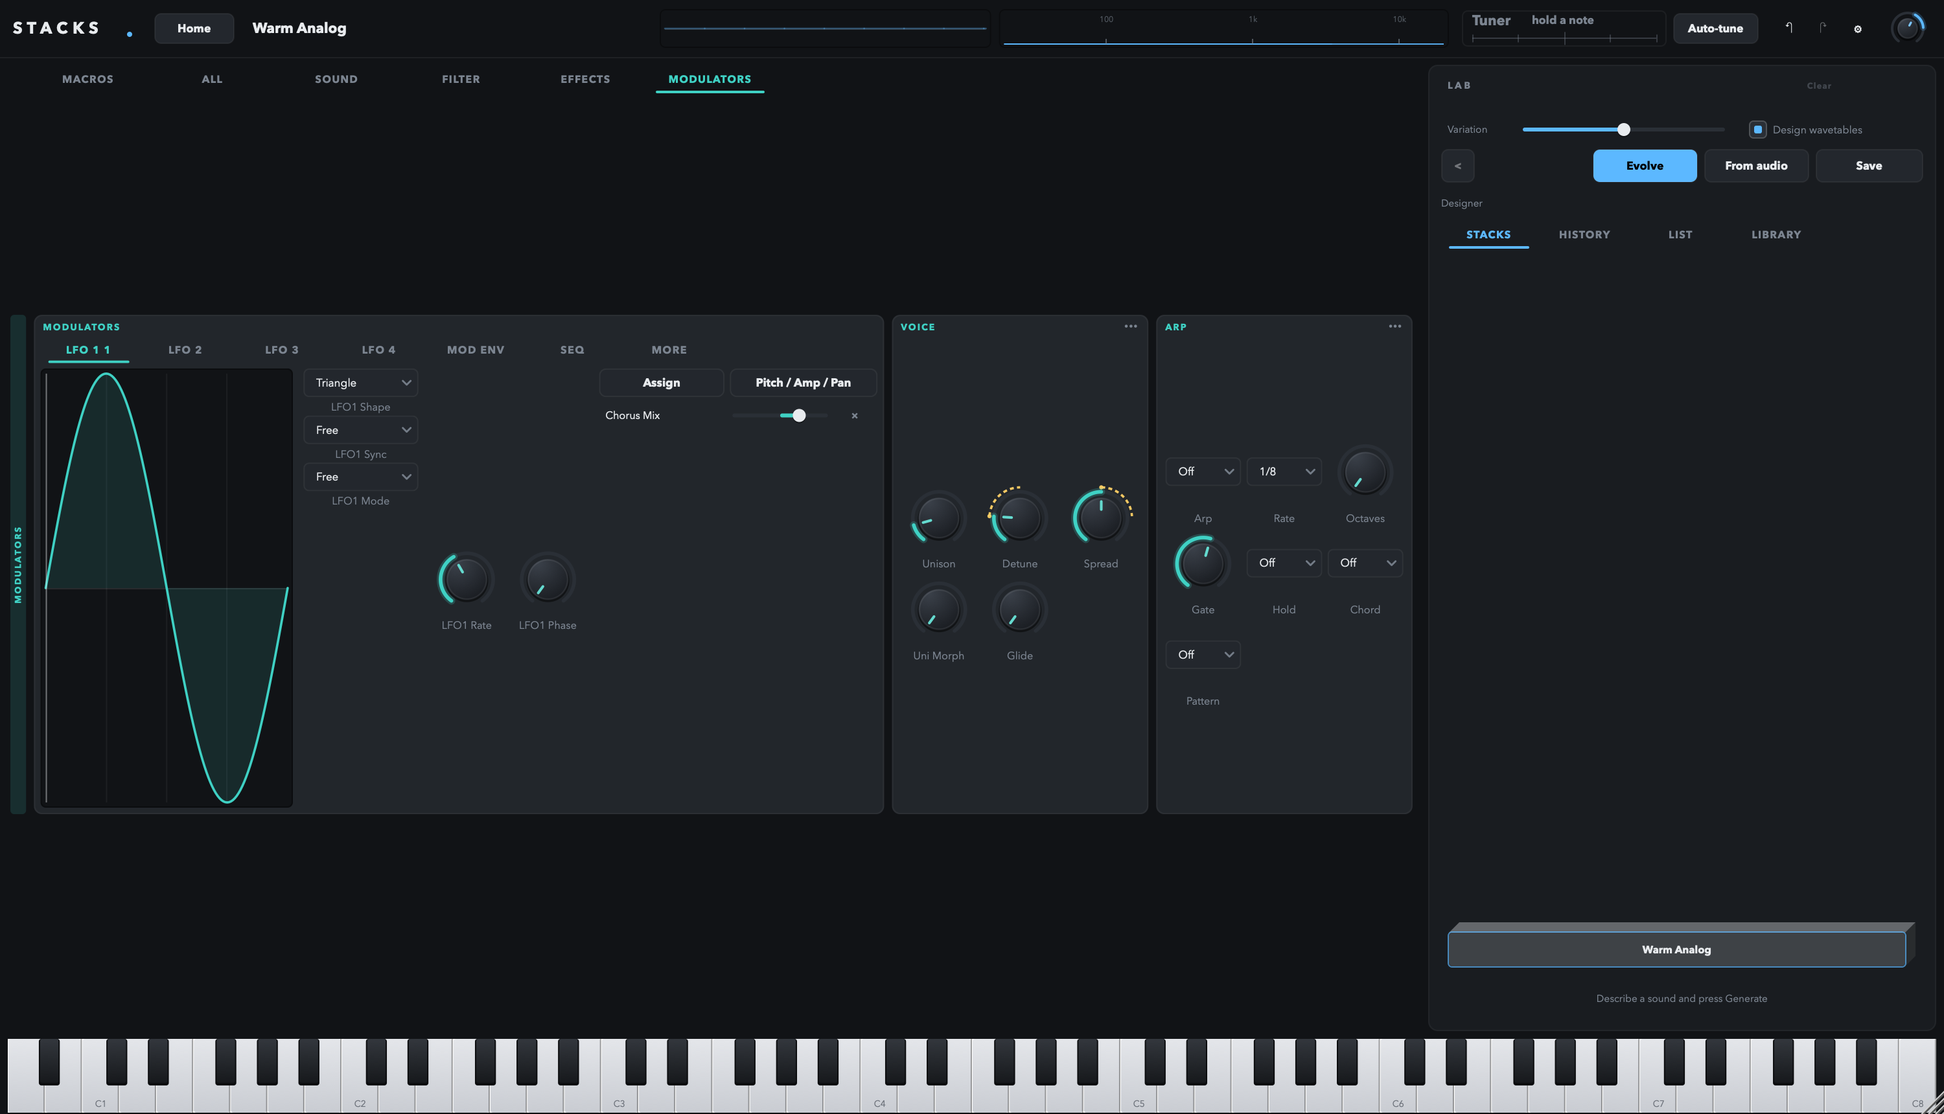
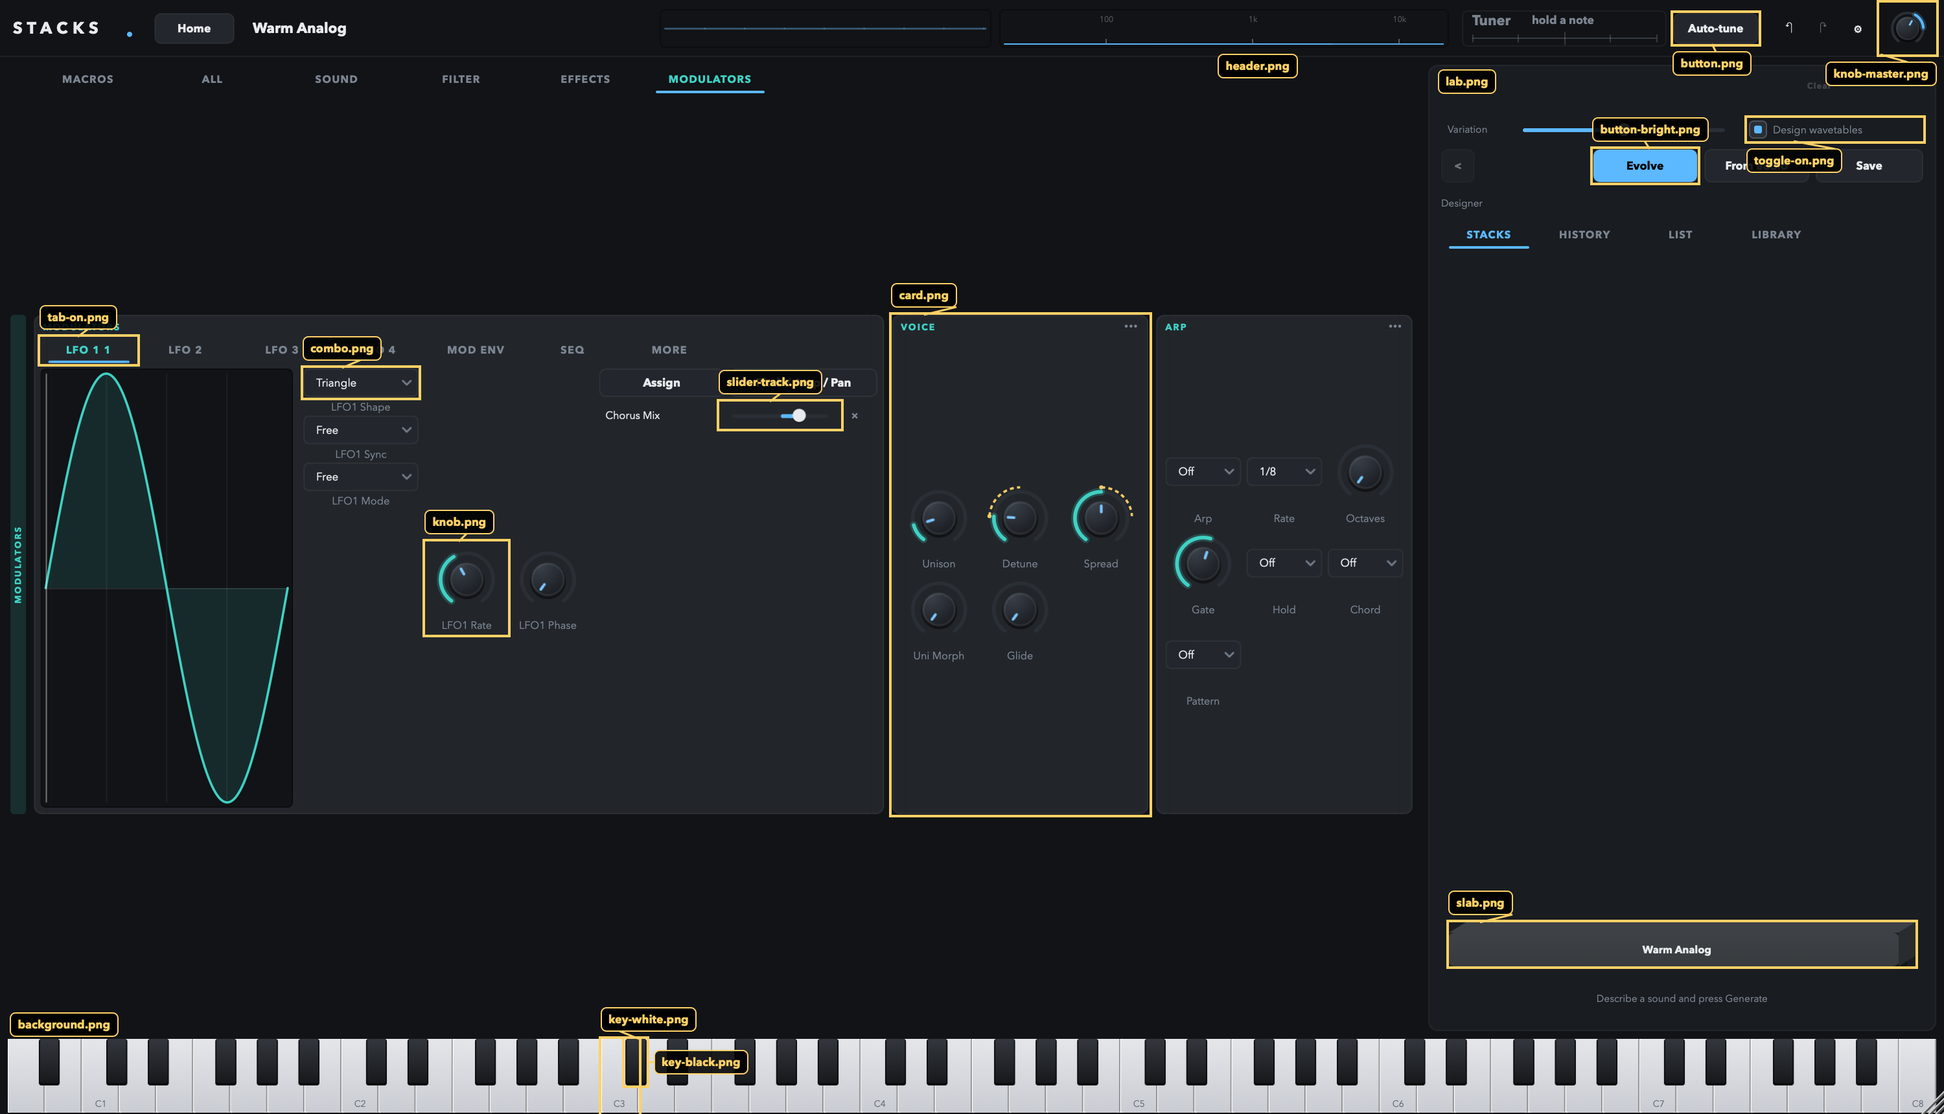
0.1.1 for the first outside tester: labelled screens, Apple silicon installer
- Every screen render now carries the skin file names (the separate annotated
  folder is gone); labels are placed so they never cover each other or a boxed
  piece. StacksUiKit --plain renders without them.
- The installer refuses Intel Macs and macOS before 12: the binaries are arm64
  only, and the old text promised Intel support it could not deliver.
- Packaging/For testers.txt: install steps, first-sound expectations and what
  to report. RELEASING.md notes the Apple silicon limit.
- Verified before shipping: no non-system libraries linked, minimum macOS 12,
  the engine path the installer writes is the one the plug-in reads, and a copy
  signed exactly like the shipped app (hardened runtime, Developer ID) loads the
  engine on Metal and grows a full batch of five.

diff --git a/Source/PluginEditor.cpp b/Source/PluginEditor.cpp
@@ -176,14 +176,136 @@ void StacksAudioProcessorEditor::resized()
     synthPanel.setBounds (r);
 }
 
-void StacksAudioProcessorEditor::renderScreens (const juce::File& directory, float scale)
+namespace
+{
+    using Piece = std::pair<juce::String, juce::Rectangle<int>>;
+
+    // Walks the tree for the standard controls; each file name is reported once.
+    void collectPieces (juce::Component& root, juce::Component& c, std::vector<Piece>& out, juce::Rectangle<int> header)
+    {
+        if (! c.isVisible() || c.getWidth() <= 0 || c.getHeight() <= 0) return;   // isShowing() needs a window; the tool has none
+        const auto r = root.getLocalArea (&c, c.getLocalBounds());
+        auto add = [&] (const juce::String& name)
+        {
+            for (const auto& p : out) if (p.first == name) return;
+            out.emplace_back (name, r);
+        };
+        if (dynamic_cast<stacks::ParamKnob*> (&c) != nullptr)
+            add (header.contains (r.getCentre()) ? "knob-master.png" : "knob.png");
+        else if (auto* b = dynamic_cast<juce::TextButton*> (&c))
+        {
+            if ((bool) b->getProperties()["tab"]) { if (! header.contains (r.getCentre()) && b->getToggleState()) add ("tab-on.png"); }   // a selected page tab, not a header icon
+            else if (b->findColour (juce::TextButton::buttonColourId).getPerceivedBrightness() > 0.45f) add ("button-bright.png");
+            else add ("button.png");
+        }
+        else if (dynamic_cast<juce::ToggleButton*> (&c) != nullptr) add ("toggle-on.png");
+        else if (dynamic_cast<juce::ComboBox*> (&c) != nullptr) add ("combo.png");
+        else if (auto* s = dynamic_cast<juce::Slider*> (&c))
+        {
+            if (! s->isRotary()) add ("slider-track.png");
+        }
+        else if (dynamic_cast<juce::TextEditor*> (&c) != nullptr) add ("texteditor.png");
+        for (auto* child : c.getChildren())
+            collectPieces (root, *child, out, header);
+    }
+}
+
+// Boxes one example of every skinned piece on screen and writes its file name
+// beside it. Labels are placed where they hit neither another label nor a
+// boxed piece, trying above, below, right and left in turn.
+void StacksAudioProcessorEditor::drawAnnotations (juce::Image& image, float scale)
+{
+    std::vector<Piece> pieces;
+    // The two whole-window surfaces, labelled at a corner: the header strip, and the window background
+    // (pointed at the gap above the keyboard, which is plain background on every screen).
+    pieces.emplace_back ("header.png", juce::Rectangle<int> (headerBounds.getRight() - 560, headerBounds.getBottom() - 2, 1, 1));
+    pieces.emplace_back ("background.png", juce::Rectangle<int> (8, keyboard.getY() - 20, 1, 1));
+    for (auto* child : getChildren())   // not from the editor itself: headless, it reports itself invisible
+        collectPieces (*this, *child, pieces, headerBounds);
+    auto addFrom = [&] (juce::Component& panel, const std::vector<Piece>& list)
+    {
+        if (! panel.isVisible()) return;
+        for (const auto& p : list)
+        {
+            bool seen = false;
+            for (const auto& q : pieces) seen = seen || q.first == p.first;
+            if (! seen) pieces.emplace_back (p.first, getLocalArea (&panel, p.second));
+        }
+    };
+    addFrom (synthPanel, synthPanel.skinPieces());
+    addFrom (labPanel, labPanel.skinPieces());
+    addFrom (homeView, homeView.skinPieces());
+    pieces.emplace_back ("key-white.png", getLocalArea (&keyboard, keyboard.getRectangleForKey (48).toNearestInt()));
+    pieces.emplace_back ("key-black.png", getLocalArea (&keyboard, keyboard.getRectangleForKey (49).toNearestInt()));
+
+    juce::Graphics g (image);
+    g.addTransform (juce::AffineTransform::scale (scale));
+    const juce::Colour ink (0xffffd166);
+    const auto font = StacksLookAndFeel::font (12.0f, true);
+    g.setFont (font);
+
+    // Big surfaces get a label only, no box: a box round the whole window says nothing.
+    auto labelOnly = [] (const juce::String& n) { return n == "header.png" || n == "lab.png" || n == "background.png"; };
+    std::vector<juce::Rectangle<int>> taken;
+    for (const auto& p : pieces)
+        if (! labelOnly (p.first)) taken.push_back (p.second.expanded (3));
+
+    auto place = [&] (const juce::Rectangle<int>& r, int w) -> juce::Rectangle<int>
+    {
+        const int h = 18, gap = 6;
+        const juce::Rectangle<int> options[] = {
+            { r.getX(), r.getY() - h - gap, w, h }, { r.getX(), r.getBottom() + gap, w, h },
+            { r.getRight() + gap, r.getCentreY() - h / 2, w, h }, { r.getX() - w - gap, r.getCentreY() - h / 2, w, h },
+            { r.getRight() - w, r.getY() - h - gap, w, h }, { r.getRight() - w, r.getBottom() + gap, w, h } };
+        const auto screen = getLocalBounds().reduced (2);
+        for (int push = 0; push < 12; ++push)
+            for (auto o : options)
+            {
+                o = o.translated (0, (o.getY() < r.getY() ? -1 : 1) * push * (h + 2));
+                if (! screen.contains (o)) continue;
+                bool clear = true;
+                for (const auto& t : taken) clear = clear && ! t.intersects (o);
+                if (clear) return o;
+            }
+        return { juce::jlimit (2, getWidth() - w - 2, r.getX()), juce::jlimit (2, getHeight() - h - 2, r.getY() - h - gap), w, h };
+    };
+
+    for (const auto& p : pieces)
+    {
+        auto r = p.second;
+        if (r.isEmpty()) continue;
+        const bool boxed = ! labelOnly (p.first);
+        if (! boxed && r.getWidth() > 1) r = juce::Rectangle<int> (r.getX() + 8, r.getY() + 4, 1, 1);   // point at the surface's top-left
+        if (boxed)
+        {
+            g.setColour (ink);
+            g.drawRect (r.expanded (2), 2);
+        }
+        const int w = (int) font.getStringWidthFloat (p.first) + 12;
+        const auto label = boxed ? place (r, w) : juce::Rectangle<int> (juce::jlimit (2, getWidth() - w - 2, r.getX()), r.getY(), w, 18);
+        taken.push_back (label.expanded (2));
+        // a leader from the label to the nearest point of the piece
+        const auto from = label.getConstrainedPoint (r.getCentre()).toFloat();
+        const auto to = r.getConstrainedPoint (label.getCentre()).toFloat();
+        g.setColour (ink);
+        if (boxed && from.getDistanceFrom (to) > 2.0f) g.drawLine ({ from, to }, 1.5f);
+        g.setColour (juce::Colours::black.withAlpha (0.88f));
+        g.fillRoundedRectangle (label.toFloat(), 4.0f);
+        g.setColour (ink);
+        g.drawRoundedRectangle (label.toFloat(), 4.0f, 1.0f);
+        g.drawText (p.first, label, juce::Justification::centred);
+    }
+}
+
+void StacksAudioProcessorEditor::renderScreens (const juce::File& directory, float scale, bool annotate)
 {
     directory.createDirectory();
     int shot = 0;
     auto shoot = [&] (const juce::String& name)
     {
         resized();
-        const auto image = createComponentSnapshot (getLocalBounds(), true, scale);
+        auto image = createComponentSnapshot (getLocalBounds(), true, scale);
+        if (annotate) drawAnnotations (image, scale);
         const auto file = directory.getChildFile (juce::String (++shot).paddedLeft ('0', 2) + " " + name + ".png");
         file.deleteFile();
         juce::FileOutputStream out (file);
@@ -217,120 +339,6 @@ void StacksAudioProcessorEditor::renderScreens (const juce::File& directory, flo
     labPanel.showView (LabPanel::View::garden);  shoot ("lab - stacks");
     labPanel.showView (LabPanel::View::tree);    shoot ("lab - history");
     labPanel.showView (LabPanel::View::ideas);   shoot ("lab - list");
-    labPanel.showView (LabPanel::View::library); shoot ("lab - library");
-    labPanel.showView (LabPanel::View::garden);
-    setHome (true);
-}
-
-namespace
-{
-    using Piece = std::pair<juce::String, juce::Rectangle<int>>;
-
-    // Walks the tree for the standard controls; each file name is reported once.
-    void collectPieces (juce::Component& root, juce::Component& c, std::vector<Piece>& out, juce::Rectangle<int> header)
-    {
-        if (! c.isVisible() || c.getWidth() <= 0 || c.getHeight() <= 0) return;   // isShowing() needs a window; the tool has none
-        auto add = [&] (const juce::String& name)
-        {
-            for (const auto& p : out) if (p.first == name) return;
-            out.emplace_back (name, root.getLocalArea (&c, c.getLocalBounds()));
-        };
-        if (auto* knob = dynamic_cast<stacks::ParamKnob*> (&c))
-        {
-            const auto r = root.getLocalArea (&c, c.getLocalBounds());
-            add (header.contains (r.getCentre()) ? "knob-master.png" : "knob.png");
-            (void) knob;
-        }
-        else if (auto* b = dynamic_cast<juce::TextButton*> (&c))
-        {
-            const auto r = root.getLocalArea (&c, c.getLocalBounds());
-            if ((bool) b->getProperties()["tab"]) { if (! header.contains (r.getCentre()) && b->getToggleState()) add ("tab-on.png"); }   // a real, selected page tab, not a header icon
-            else if (b->findColour (juce::TextButton::buttonColourId).getPerceivedBrightness() > 0.45f) add ("button-bright.png");
-            else add ("button.png");
-        }
-        else if (dynamic_cast<juce::ToggleButton*> (&c) != nullptr) add ("toggle-on.png");
-        else if (dynamic_cast<juce::ComboBox*> (&c) != nullptr) add ("combo.png");
-        else if (auto* s = dynamic_cast<juce::Slider*> (&c))
-        {
-            if (! s->isRotary()) add ("slider-track.png");
-        }
-        else if (dynamic_cast<juce::TextEditor*> (&c) != nullptr) add ("texteditor.png");
-        for (auto* child : c.getChildren())
-            collectPieces (root, *child, out, header);
-    }
-}
-
-void StacksAudioProcessorEditor::annotateScreens (const juce::File& directory, float scale)
-{
-    directory.createDirectory();
-    int shot = 0;
-    auto shoot = [&] (const juce::String& name)
-    {
-        resized();
-        auto image = createComponentSnapshot (getLocalBounds(), true, scale);
-
-        std::vector<Piece> pieces;
-        pieces.emplace_back ("header.png", headerBounds);
-        for (auto* child : getChildren())   // not from the editor itself: headless, it reports itself invisible
-            collectPieces (*this, *child, pieces, headerBounds);
-        auto addFrom = [&] (juce::Component& panel, const std::vector<Piece>& list)
-        {
-            if (! panel.isVisible()) return;
-            for (const auto& p : list)
-            {
-                bool seen = false;
-                for (const auto& q : pieces) seen = seen || q.first == p.first;
-                if (! seen) pieces.emplace_back (p.first, getLocalArea (&panel, p.second));
-            }
-        };
-        addFrom (synthPanel, synthPanel.skinPieces());
-        addFrom (labPanel, labPanel.skinPieces());
-        addFrom (homeView, homeView.skinPieces());
-        pieces.emplace_back ("key-white.png", getLocalArea (&keyboard, keyboard.getRectangleForKey (48).toNearestInt()));
-        pieces.emplace_back ("key-black.png", getLocalArea (&keyboard, keyboard.getRectangleForKey (49).toNearestInt()));
-        pieces.emplace_back ("background.png", juce::Rectangle<int> (getWidth() - 150, getHeight() - keyboard.getHeight() - 30, 140, 20));
-
-        juce::Graphics g (image);
-        g.addTransform (juce::AffineTransform::scale (scale));
-        const juce::Colour ink (0xffffd166);
-        g.setFont (StacksLookAndFeel::font (12.0f, true));
-        int n = 0;
-        for (const auto& p : pieces)
-        {
-            const auto r = p.second;
-            if (r.isEmpty()) continue;
-            g.setColour (ink);
-            g.drawRect (r.expanded (2), 2);
-            // The label sits above the piece, or below when there is no room; alternate sides so neighbours don't stack.
-            const int w = (int) g.getCurrentFont().getStringWidthFloat (p.first) + 12;
-            const bool below = r.getY() < 30 || (n % 2 == 1 && r.getBottom() + 26 < getHeight());
-            int lx = juce::jlimit (2, getWidth() - w - 2, p.first.startsWith ("key-black") ? r.getRight() + 4 : p.first.startsWith ("key-white") ? r.getX() - w - 4 : r.getX());
-            int ly = below ? r.getBottom() + 6 : r.getY() - 24;
-            juce::Rectangle<int> label (lx, ly, w, 18);
-            g.setColour (juce::Colours::black.withAlpha (0.85f));
-            g.fillRoundedRectangle (label.toFloat(), 4.0f);
-            g.setColour (ink);
-            g.drawRoundedRectangle (label.toFloat(), 4.0f, 1.0f);
-            g.drawLine ((float) label.getX() + 8.0f, below ? (float) label.getY() : (float) label.getBottom(), (float) r.getX() + 4.0f, below ? (float) r.getBottom() : (float) r.getY(), 1.5f);
-            g.drawText (p.first, label, juce::Justification::centred);
-            ++n;
-        }
-
-        const auto file = directory.getChildFile (juce::String (++shot).paddedLeft ('0', 2) + " " + name + " (annotated).png");
-        file.deleteFile();
-        juce::FileOutputStream out (file);
-        if (out.openedOk())
-            juce::PNGImageFormat().writeImageToStream (image, out);
-    };
-
-    setHome (true);
-    shoot ("home");
-    setHome (false);
-    synthPanel.setView (-2); shoot ("synth - macros");
-    synthPanel.setView (-1); shoot ("synth - all");
-    synthPanel.setView (2);  shoot ("synth - effects");
-    synthPanel.setView (-1);
-    labPanel.showView (LabPanel::View::garden);  shoot ("lab - stacks");
     labPanel.showView (LabPanel::View::library); shoot ("lab - library");
     labPanel.showView (LabPanel::View::garden);
     setHome (true);

diff --git a/Tools/UiKit.cpp b/Tools/UiKit.cpp
@@ -208,14 +208,14 @@ int main (int argc, char** argv)
 {
     if (argc < 2)
     {
-        std::printf ("usage: StacksUiKit <output directory> [scale] [preset.json]\n"
+        std::printf ("usage: StacksUiKit <output directory> [scale] [preset.json]   (screens labelled with skin file names)\n"
                      "       StacksUiKit --export-skin <output directory> [scale]\n"
-                     "       StacksUiKit --annotate <output directory>        (screens with the skin file names written on)\n");
+                     "       StacksUiKit --plain <output directory> [scale]  (screens without the file-name labels)\n");
         return 2;
     }
     juce::ScopedJuceInitialiser_GUI init;
     const auto cwd = juce::File::getCurrentWorkingDirectory();
-    const bool annotate = juce::String (argv[1]) == "--annotate" && argc > 2;
+    const bool plain = juce::String (argv[1]) == "--plain" && argc > 2;   // screens without the file-name labels
     if (juce::String (argv[1]) == "--export-skin" && argc > 2)
     {
         stacks::StacksLookAndFeel lnf;
@@ -227,10 +227,11 @@ int main (int argc, char** argv)
         std::printf ("%d skin files written to %s\n", e.written, e.dir.getFullPathName().toRawUTF8());
         return 0;
     }
-    const auto outDir = cwd.getChildFile (annotate ? argv[2] : argv[1]);
-    const float scale = ! annotate && argc > 2 ? (float) juce::String (argv[2]).getDoubleValue() : 2.0f;
+    const int first = plain ? 2 : 1;
+    const auto outDir = cwd.getChildFile (argv[first]);
+    const float scale = argc > first + 1 ? (float) juce::String (argv[first + 1]).getDoubleValue() : 2.0f;
     const auto repo = juce::File (__FILE__).getParentDirectory().getParentDirectory();
-    const auto preset = argc > 3 ? cwd.getChildFile (argv[3]) : repo.getChildFile ("Factory/Pad/Warm Analog.json");
+    const auto preset = argc > first + 2 ? cwd.getChildFile (argv[first + 2]) : repo.getChildFile ("Factory/Pad/Warm Analog.json");
 
     auto processor = std::make_unique<stacks::StacksAudioProcessor>();
     processor->prepareToPlay (48000.0, 512);
@@ -242,8 +243,7 @@ int main (int argc, char** argv)
     if (stacksEditor == nullptr)
         return 1;
     stacksEditor->setSize (1500, 860);
-    if (annotate) stacksEditor->annotateScreens (outDir, 2.0f);
-    else          stacksEditor->renderScreens (outDir, scale > 0.0f ? scale : 2.0f);
+    stacksEditor->renderScreens (outDir, scale > 0.0f ? scale : 2.0f, ! plain);
     std::printf ("screens written to %s\n", outDir.getFullPathName().toRawUTF8());
     editor.reset();
     processor.reset();

diff --git a/Source/PluginEditor.h b/Source/PluginEditor.h
@@ -29,11 +29,10 @@ public:
     std::unique_ptr<juce::ComponentTraverser> createKeyboardFocusTraverser() override;   // no automatic focus target
 
     // Paints every screen (home, each synth page, each modulator tab, each lab
-    // view) to numbered PNG files at `scale` times the window size. Used by the
-    // StacksUiKit tool to hand the UI to a designer; the editor ends up back on Home.
-    void renderScreens (const juce::File& directory, float scale);
-    // The same screens with each skin file's name written next to the piece it paints.
-    void annotateScreens (const juce::File& directory, float scale);
+    // view) to numbered PNG files at `scale` times the window size, by default
+    // with each skin file's name written next to the piece it paints. Used by
+    // the StacksUiKit tool; the editor ends up back on Home.
+    void renderScreens (const juce::File& directory, float scale, bool annotate = true);
 
 private:
     void changeListenerCallback (juce::ChangeBroadcaster*) override;
@@ -53,6 +52,7 @@ private:
     juce::TextButton modeButton;   // Home <-> Synth
     bool showingHome = true;
     void setHome (bool);
+    void drawAnnotations (juce::Image&, float scale);
     StacksKeyboard keyboard;
     juce::Rectangle<int> headerBounds;
     juce::TooltipWindow tooltips { this, 600 };

diff --git a/Design/Skin spec.md b/Design/Skin spec.md
@@ -13,8 +13,8 @@ coral for the filter, teal for modulators, blue for effects. That ring also
 shows the value. So there is one knob file, and it is grey on purpose. If you
 want a different body per section, add the optional per-section files below.
 
-The folder `annotated/` holds screenshots with each file's name written next
-to the piece it paints. Start there.
+The folder `screens/` holds every screen of the plug-in with each file's
+name written next to the piece it paints. Start there.
 
 ## Working rules
 
@@ -106,7 +106,8 @@ cmake --build build.nosync --target StacksUiKit
 ./build.nosync/StacksUiKit_artefacts/Release/StacksUiKit --export-skin Skin 2
 ```
 
-Render the screens with a skin folder to check it:
+Render the labelled screens through a skin folder to check it (add `--plain`
+before the folder for screens without labels):
 
 ```bash
 STACKS_SKIN_DIR="$PWD/Skin" ./build.nosync/StacksUiKit_artefacts/Release/StacksUiKit Design/screens 2

diff --git a/Design/UI handoff.md b/Design/UI handoff.md
@@ -11,8 +11,9 @@ is nothing to "export in the format we use": the format is code. What exists
 and can be handed over:
 
 - **Screens** — `screens/` holds every screen of the plug-in rendered at 2x
-  (3000 x 1720 px for a 1500 x 860 window) with a real preset loaded. These are
-  the reference for what exists today. They are regenerated by a tool in the
+  (3000 x 1720 px for a 1500 x 860 window) with a real preset loaded, and
+  each skin file's name written next to the piece it paints. These are the
+  reference for what exists today. They are regenerated by a tool in the
   repo (see the end), so they are always current.
 - **Colour tokens** — the whole palette is 15 named colours (table below). A
   `theme.json` with new values recolours the entire UI with no code change.

diff --git a/Packaging/RELEASING.md b/Packaging/RELEASING.md
@@ -60,6 +60,13 @@ and their presets and settings (in their home folder) are never touched.
 
 ## What the friend does
 
+**Apple silicon only.** The binaries are arm64; the installer refuses Intel
+Macs and macOS older than 12. Making Intel work needs a universal build of
+the engine (llama.cpp) and would run the engine far too slowly to be useful.
+
+`Packaging/For testers.txt` is the note to send beta testers with the link.
+
+
 Download, double click, click through. Same steps for the first install and
 every update; the new version replaces the old one. The update package only
 works on a Mac that has had the full installer once (it has no engine data). Then restart the DAW (or
